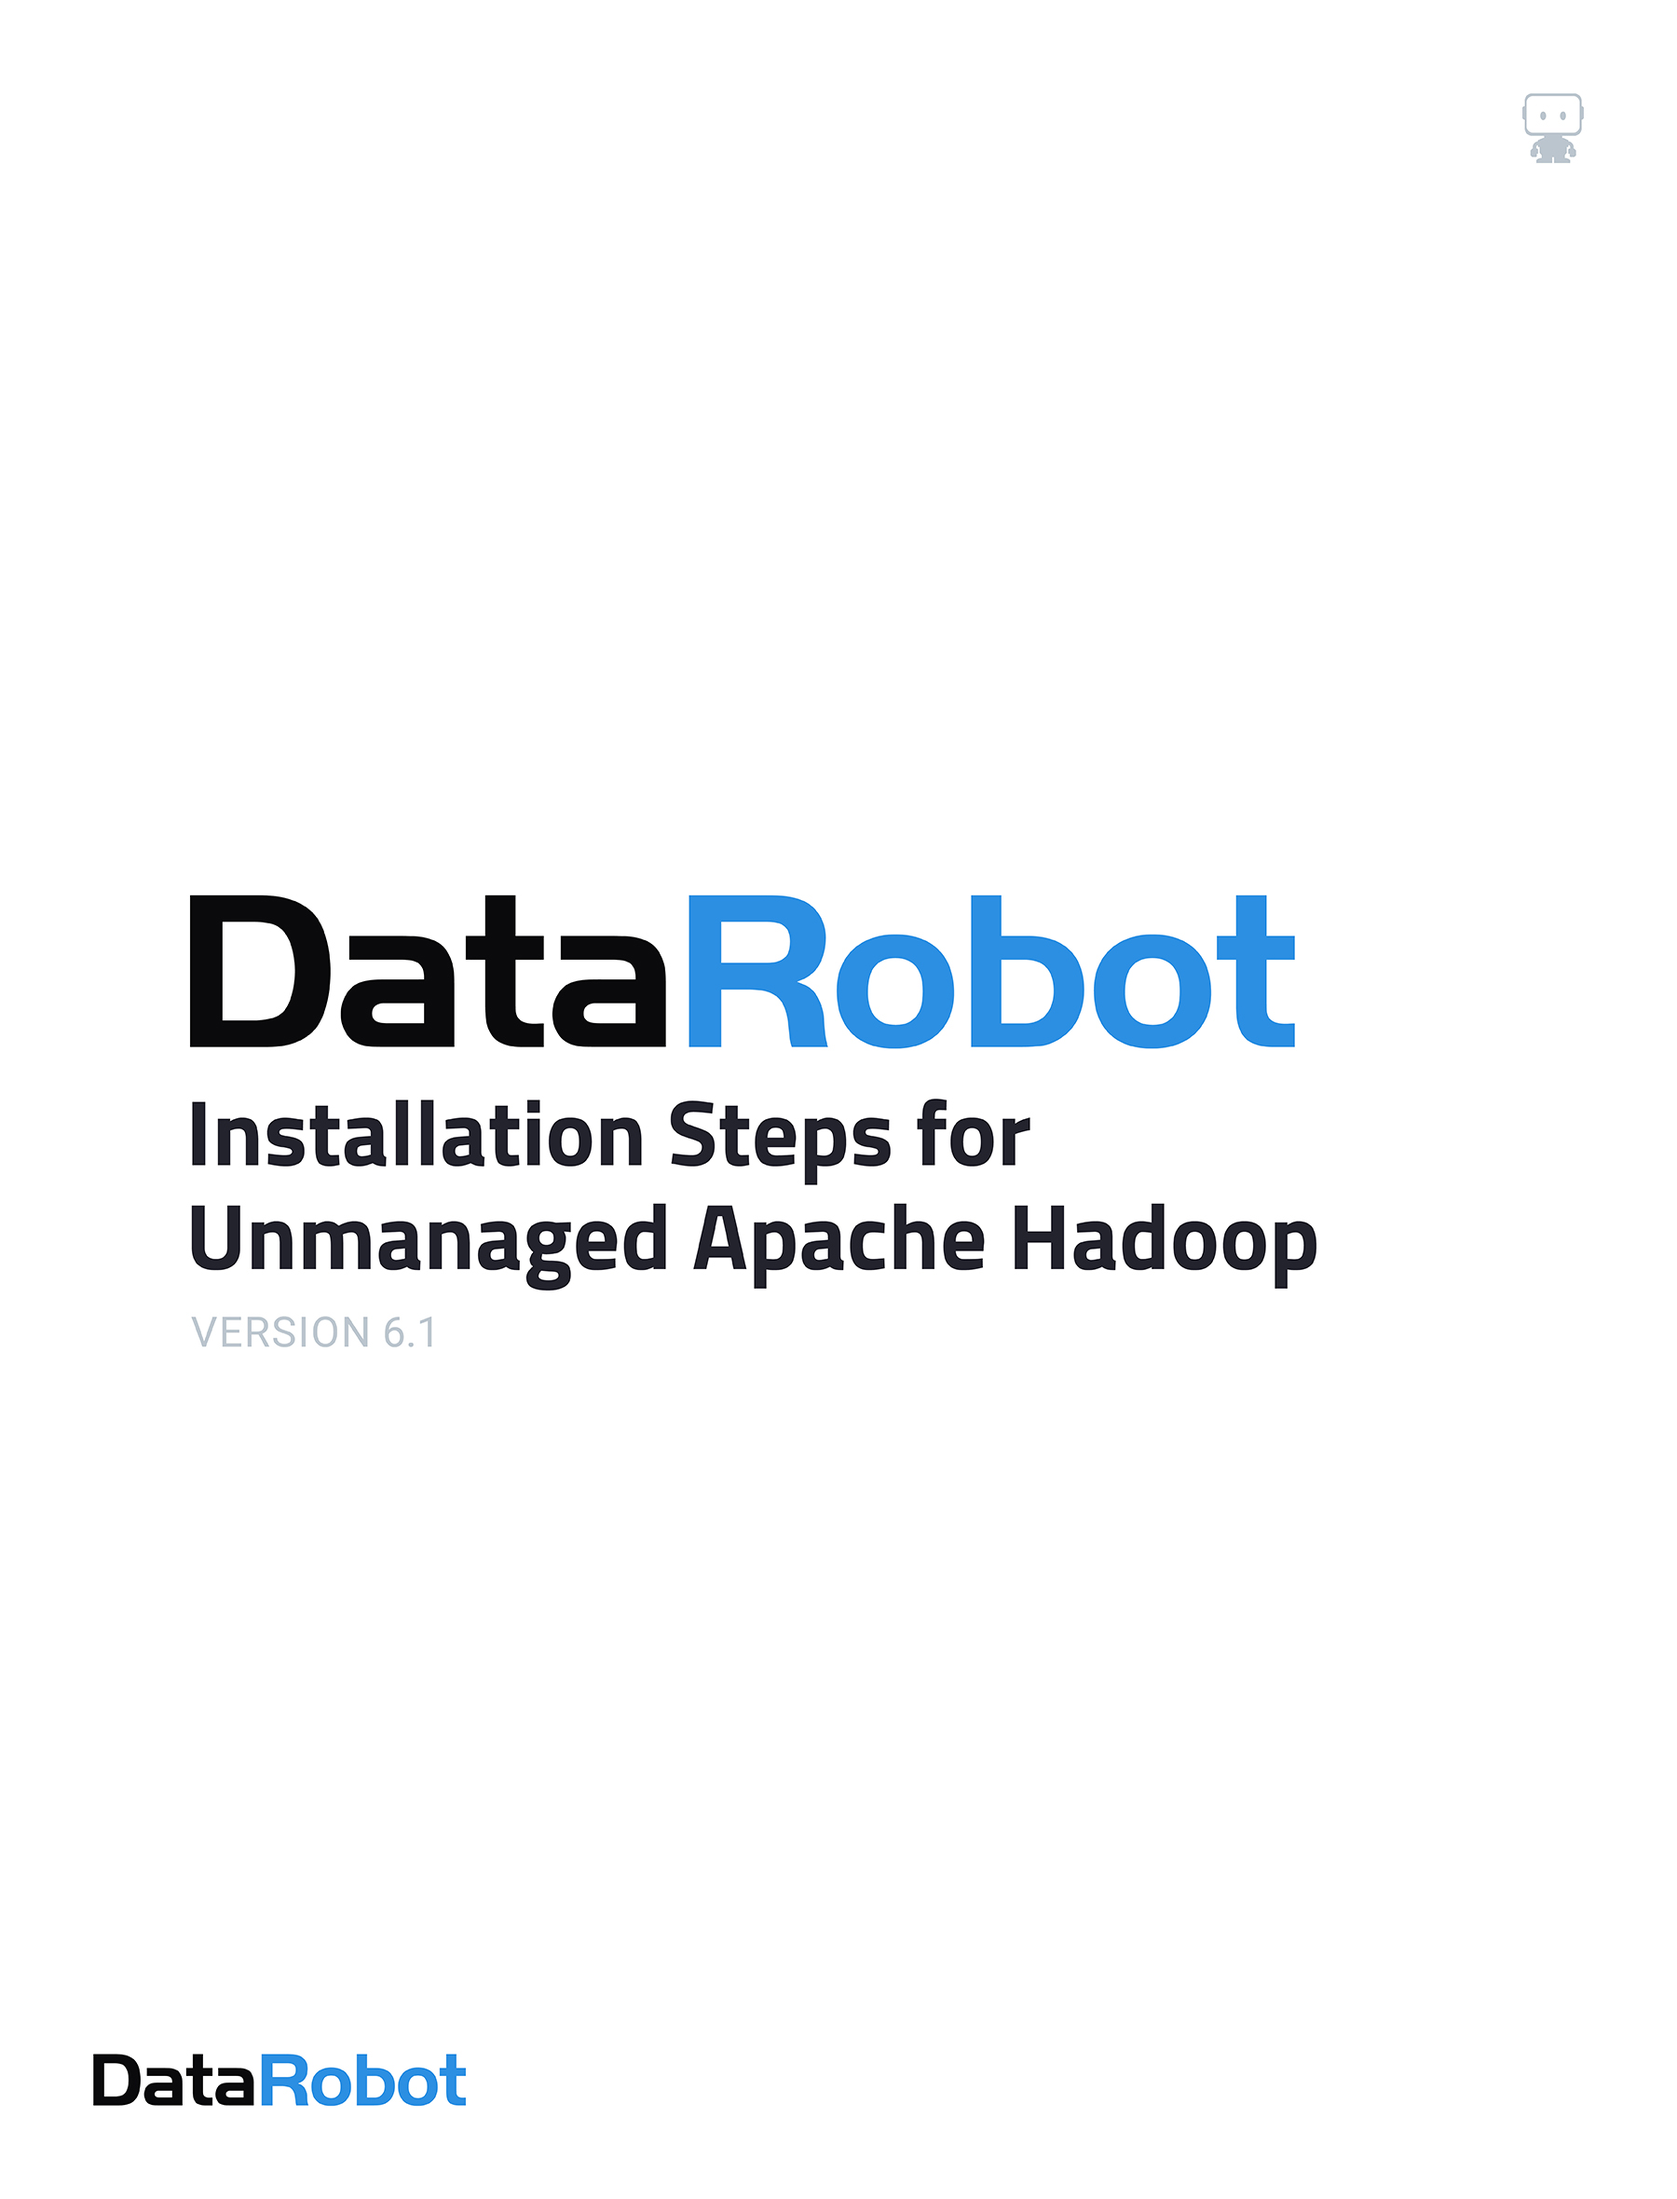
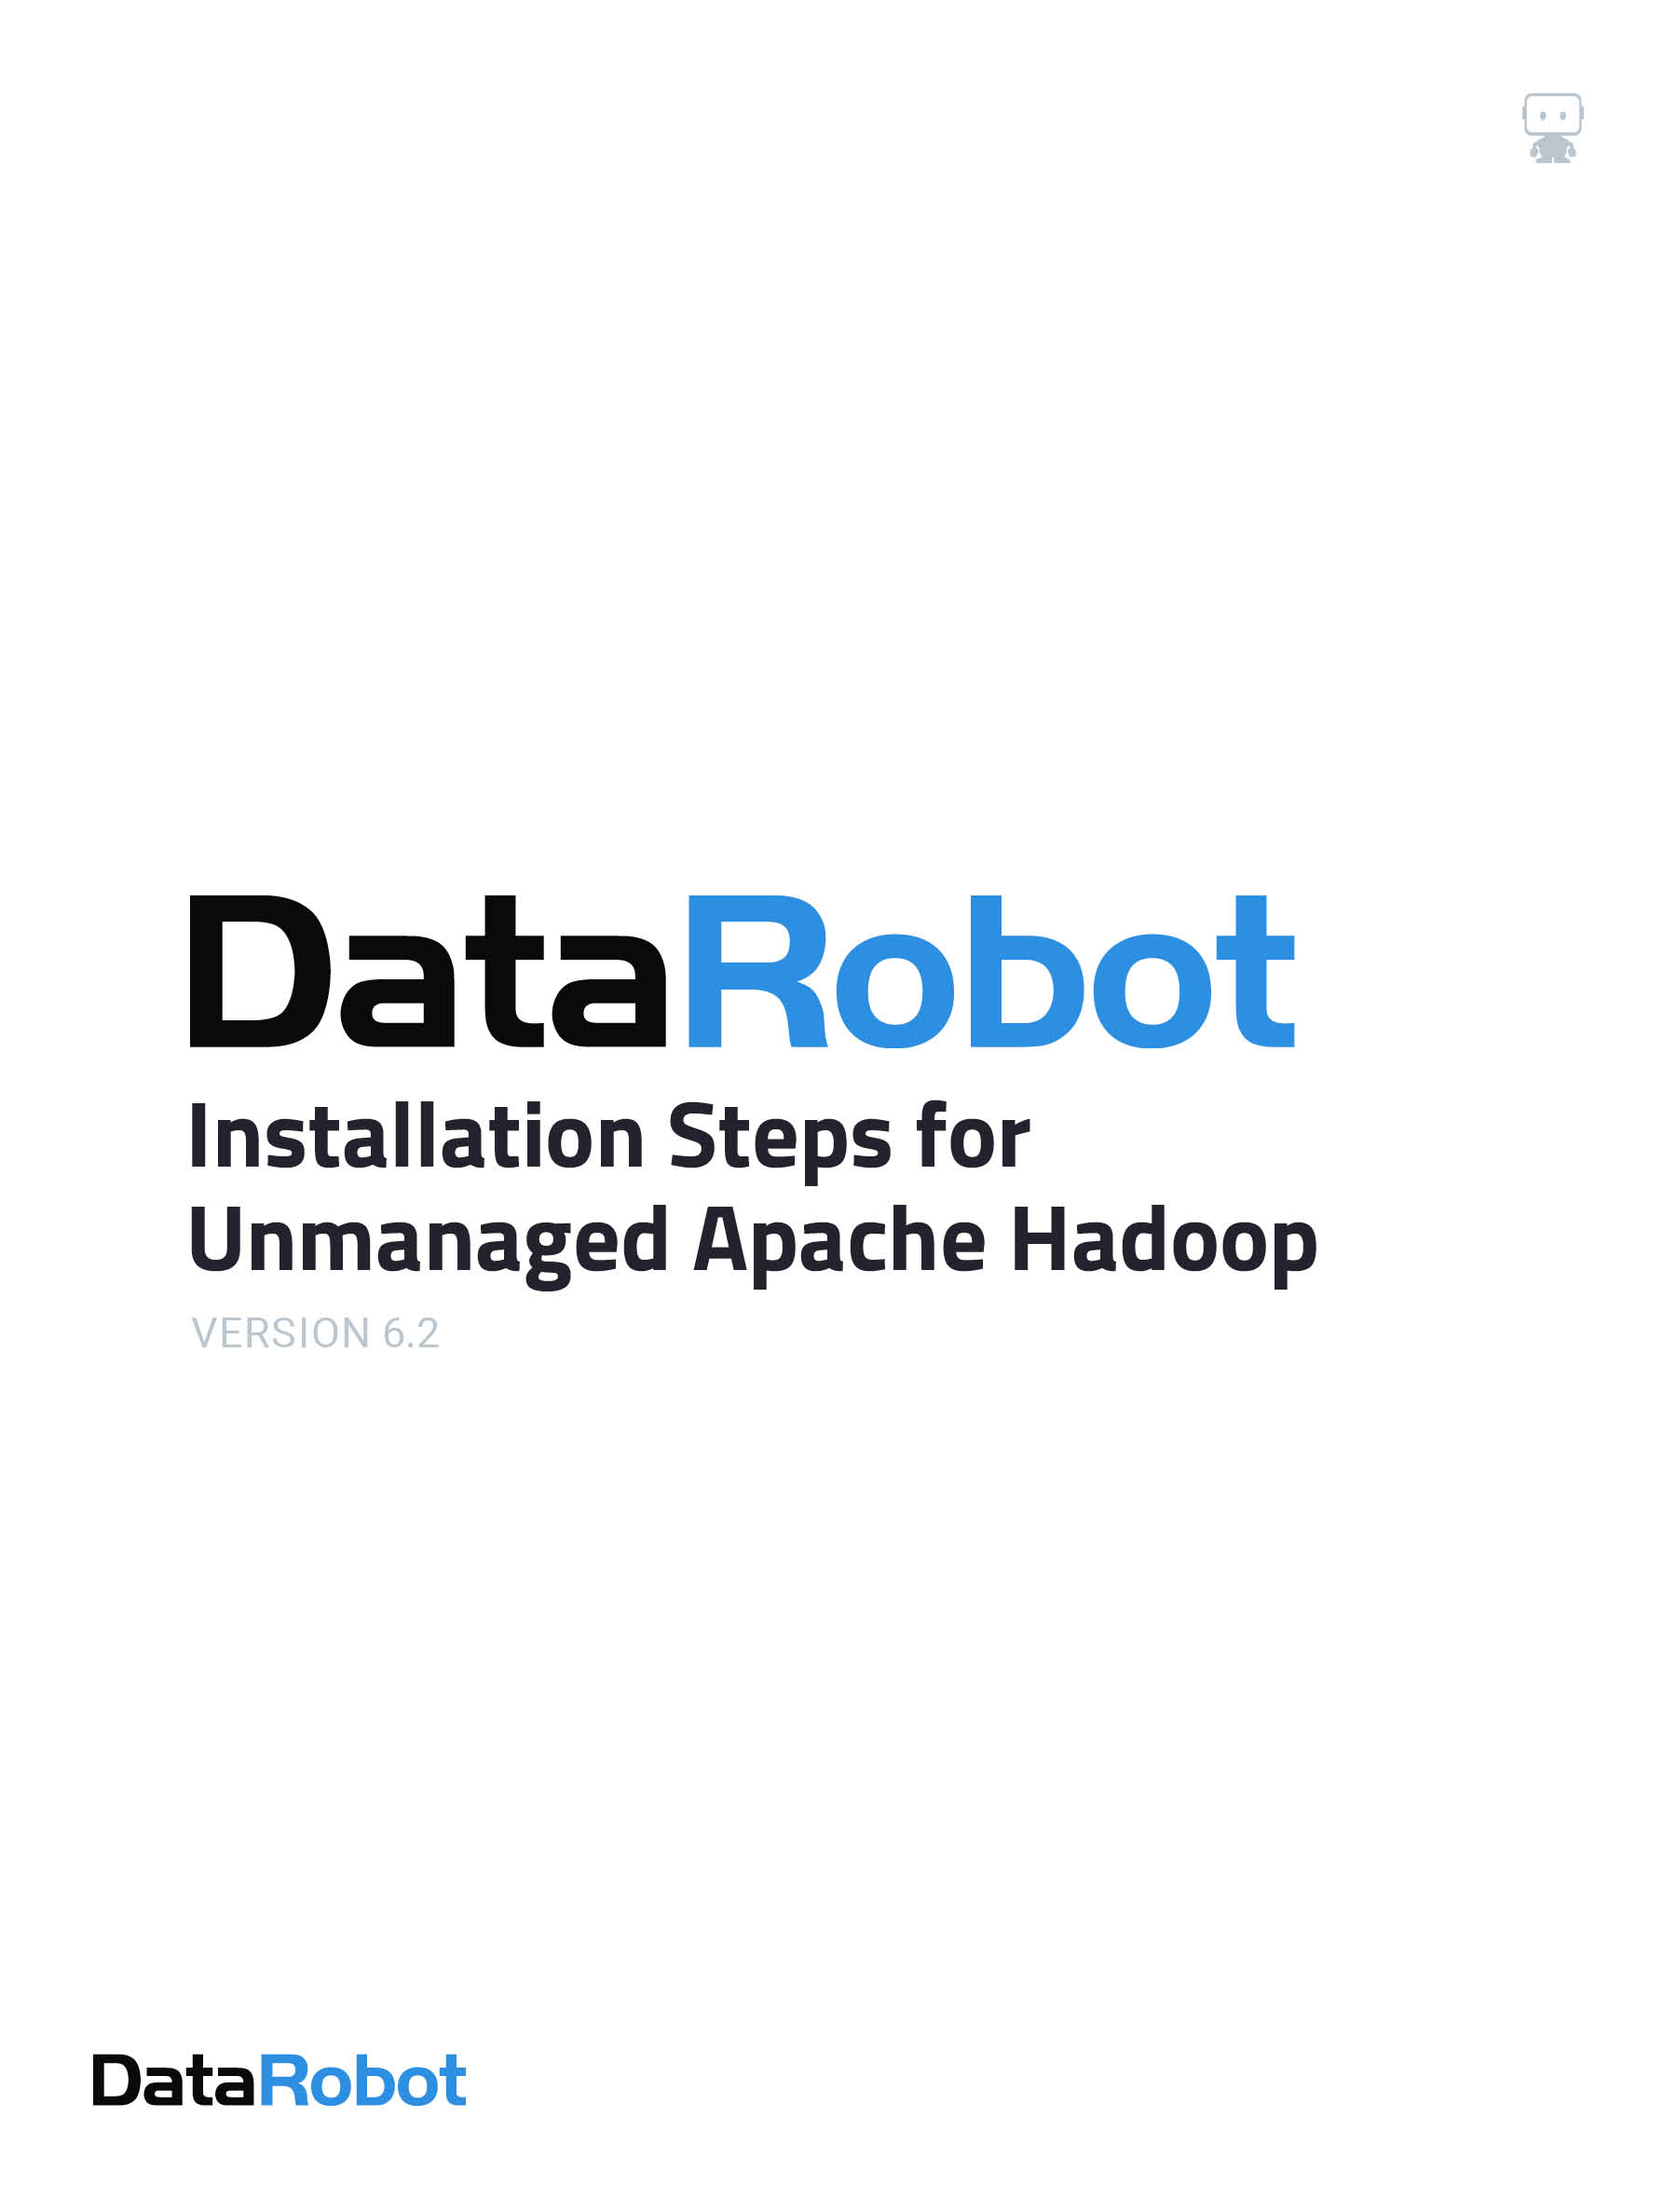
[ICBM-234] updating cover pages for 6.2 (#537)

diff --git a/installation/special-topics/gluster-migration.md b/installation/special-topics/gluster-migration.md
@@ -6,7 +6,7 @@ As of DataRobot 5.3, Gluster has been deprecated as a storage backend and will b
 
 Scripts have been provided to backup an existing Gluster deployment and restore it to a running MinIO instance.  These scripts should be run on a host that is currently running Gluster or MinIO; these scripts will not exist on every host.
 
-Gluster is still supported in the DataRobot 6.0 release, and it is recommended that upgrade activities are performed prior to migrating data to the new MinIO backend (i.e. upgrade to 6.0, verify that the upgrade is stable, and then perform the MinIO upgrade).  These tasks do not need to be synchronous, and an extended outage may be required for this backup-and-restore migration.
+Gluster is still supported in the DataRobot 6.2 release, and it is recommended that upgrade activities are performed prior to migrating data to the new MinIO backend (i.e. upgrade to 6.2, verify that the upgrade is stable, and then perform the MinIO upgrade).  These tasks do not need to be synchronous, and an extended outage may be required for this backup-and-restore migration.
 
 You must have installed DataRobot 6.0 or later in order to proceed with these migration procedures.
 
